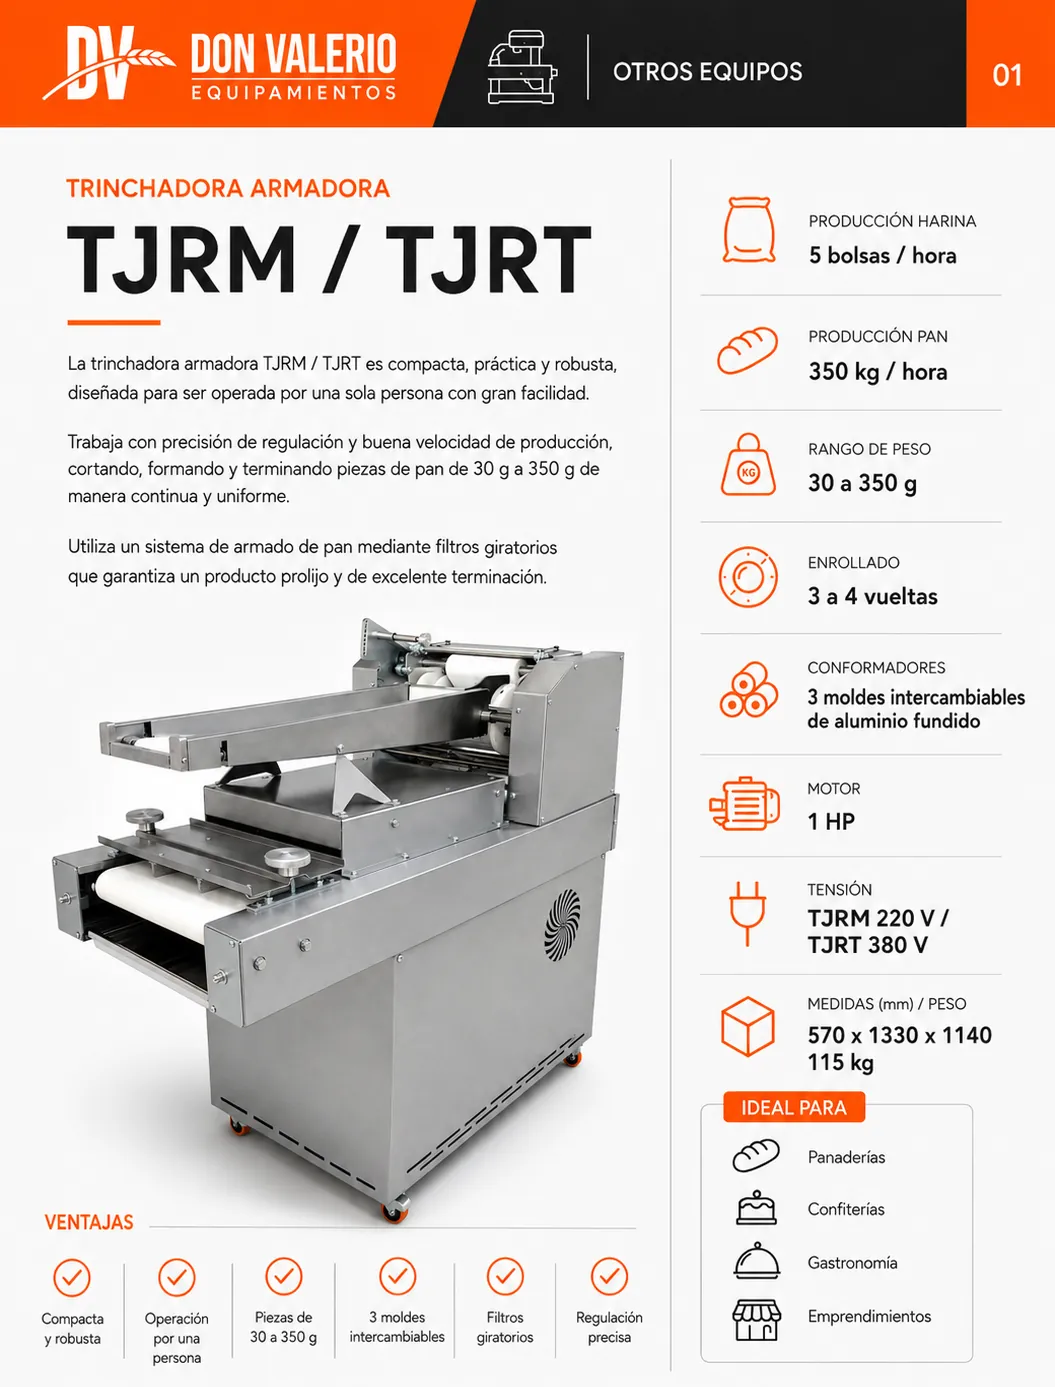
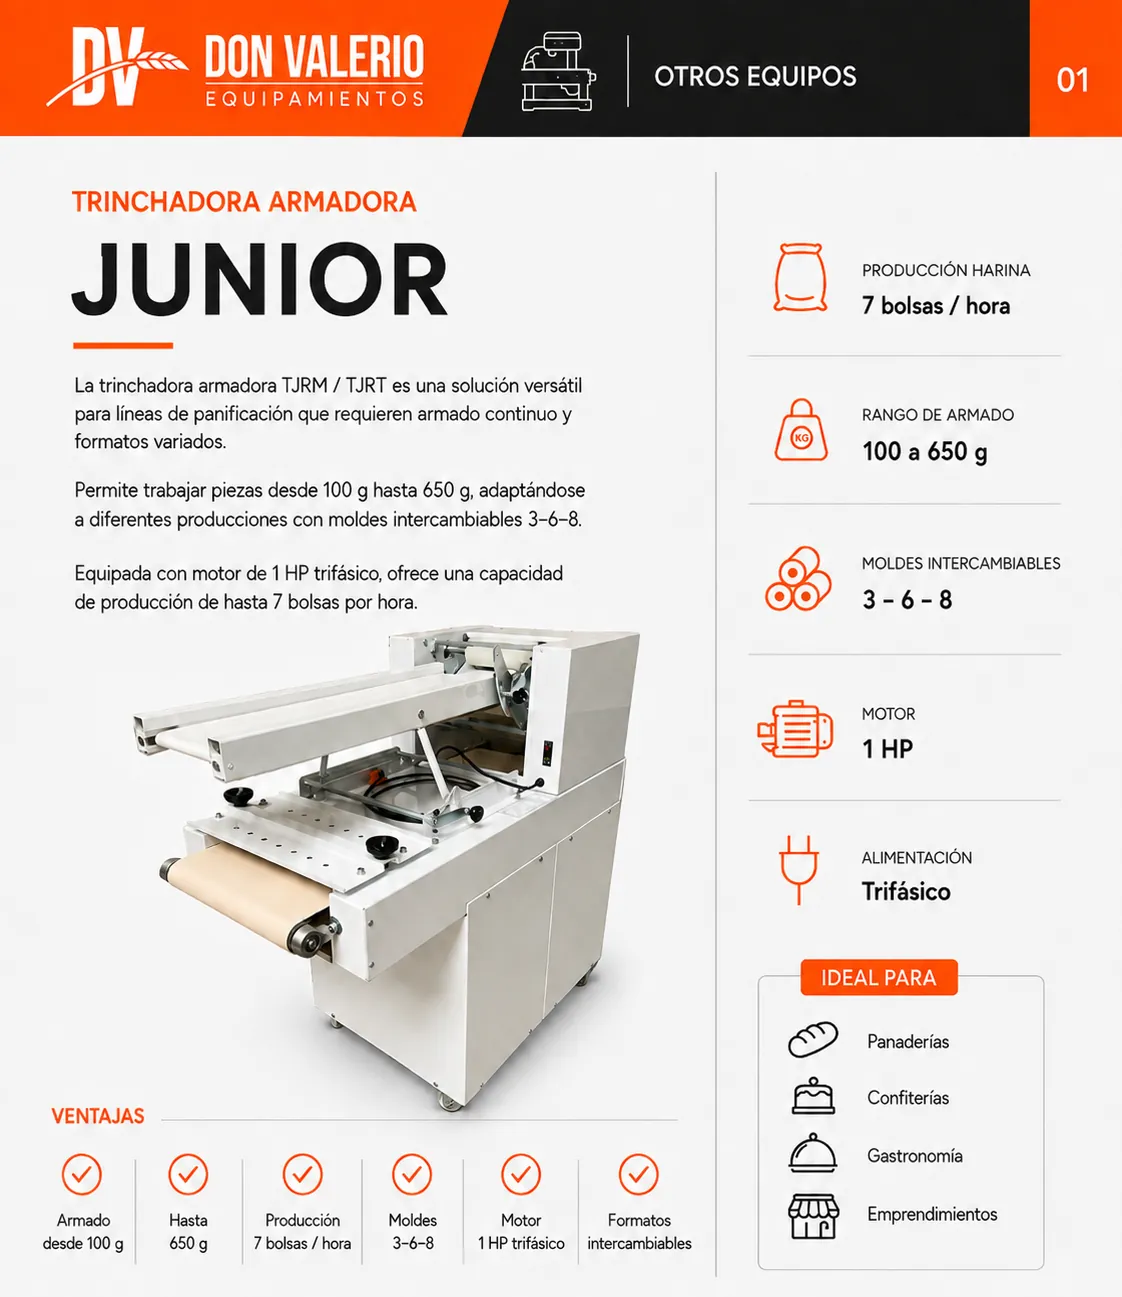
actualizar trinchadora JR: foto, ficha y specs

Changed region(s): [[0.0, 0.0, 1.0, 0.9869], [0.0303, 0.8327, 0.1213, 0.9869]]

diff --git a/src/data.js b/src/data.js
@@ -274,9 +274,9 @@ const PRODUCTS = [
   },
   {
     sku: 'TRINCH-JR', slug: 'trinchadora-jr-trinch-jr', category: 'trinchadoras', img: 'TRINCH-JR',
-    name: 'Trinchadora JR', cap: '3 conformadores',
-    desc: 'Trinchadora JR con 3 conformadores de aluminio fundido intercambiables. Sistema de armado por filtros giratorios, 3 a 4 vueltas y rodamientos blindados para larga vida útil.',
-    specs: [['Producción harina','5 bolsas/hora'],['Producción pan','350 kg/hora'],['Rango de piezas','30 – 350 g'],['Conformadores','3 de aluminio fundido intercambiables'],['Sistema','Filtros giratorios'],['Vueltas','3 a 4'],['Rodamientos','Blindados'],['Motor','1 HP'],['Tensión','220V (TJRM) o 380V (TJRT)'],['Dimensiones','570 × 1330 × 1140 mm'],['Peso','115 kg']],
+    name: 'Trinchadora JR', cap: 'Moldes 3-6-8 · 1 HP',
+    desc: 'Trinchadora armadora TJRM / TJRT, solución versátil para líneas de panificación que requieren armado continuo y formatos variados. Permite trabajar piezas desde 100 g hasta 650 g, adaptándose a diferentes producciones con moldes intercambiables 3-6-8. Equipada con motor de 1 HP trifásico, ofrece una capacidad de producción de hasta 7 bolsas por hora.',
+    specs: [['Producción de harina','7 bolsas/hora'],['Rango de armado','100 a 650 g'],['Moldes intercambiables','3 – 6 – 8'],['Motor','1 HP'],['Alimentación','Trifásico']],
     stock: 2,
   },
 
